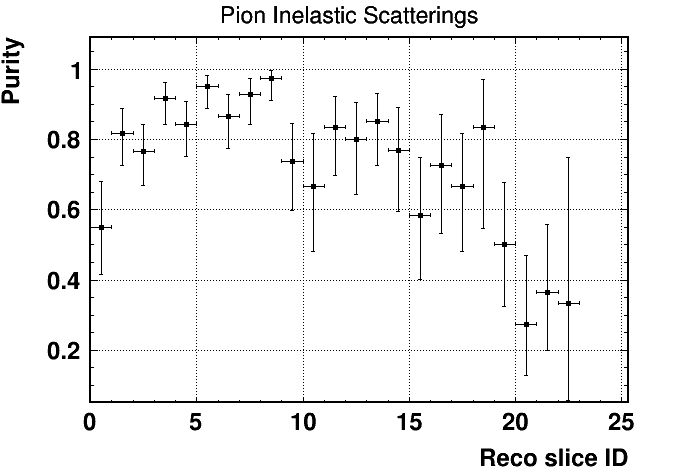
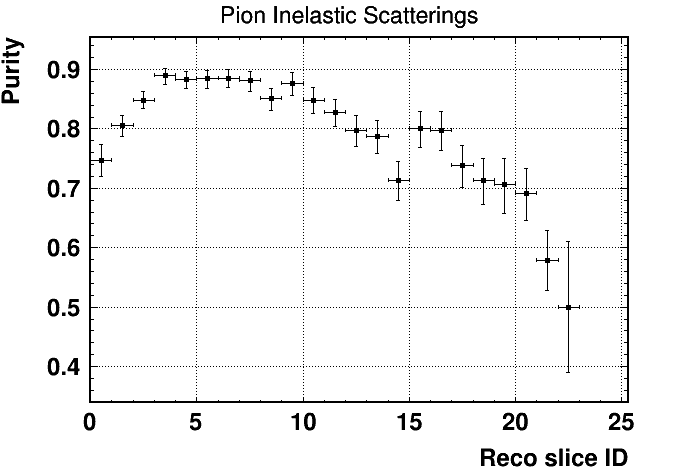
Test prod4 MC.

diff --git a/macros/makeXS.C b/macros/makeXS.C
@@ -4,7 +4,7 @@
 
   gStyle->SetOptStat(0);
 
-  TFile *file = TFile::Open("../install/bin/mc.root");
+  TFile *file = TFile::Open("../install/bin/mcprod4.root");
 
   TH1D *eff_num_Int = (TH1D*)file->Get("eff_num_Int");
   TH1D *eff_den_Int = (TH1D*)file->Get("eff_den_Int");
@@ -119,7 +119,7 @@
     for (int j = i; j<=nthinslices; ++j){
       Ninc[i] += h_truesliceid_pion_uf->GetBinContent(j+2);
       err_inc[i] += pow(h_truesliceid_pion_uf->GetBinError(j+2),2);
-      cout<<i<<" "<<j<<" "<<h_truesliceid_pion_uf->GetBinContent(j+2)<<" "<<Ninc[i]<<endl;
+      //cout<<i<<" "<<j<<" "<<h_truesliceid_pion_uf->GetBinContent(j+2)<<" "<<Ninc[i]<<endl;
     }
     err_inc[i] = sqrt(err_inc[i]);
   }
@@ -139,7 +139,7 @@
     //err_xs[i] = MAr/(Density*NA*thinslicewidth)*1e27*sqrt(N_int[i]+pow(N_int[i],2)/N_inc[i])/N_incidents[i];
     err_xs[i] = MAr/(Density*NA*thinslicewidth)*1e27*sqrt(pow(Nint[i]*err_inc[i]/Ninc[i]/(Ninc[i]-Nint[i]),2)+pow(err_int[i]/(Ninc[i]-Nint[i]),2));
     incE[i] = gr_trueincE->GetPointY(i);
-    std::cout<<i<<" "<<Ninc[i]<<" "<<Nint[i]<<" "<<xs[i]<<" "<<incE[i]<<std::endl;
+    //std::cout<<i<<" "<<Ninc[i]<<" "<<Nint[i]<<" "<<xs[i]<<" "<<incE[i]<<std::endl;
   }
 
   TFile f2("../files/exclusive_xsec.root");

diff --git a/macros/plot.C b/macros/plot.C
@@ -68,12 +68,13 @@ void plot(){
 
   gStyle->SetOptStat(0);
 
-  f = TFile::Open("../install/bin/mc.root");
+  f = TFile::Open("../install/bin/mcprod4.root");
 
   for (int i = 0; i<nCuts; ++i){
     plot1d("hmediandEdx", i, "Median dE/dx (MeV/cm)", "Events");
     plot1d("hdaughter_michel_score", i, "Daughter Michel Score", "Events");
-    plot1d("hreco_beam_endZ_SCE", i, "Reco track end (cm)", "Events");
+    plot1d("hreco_beam_endZ_SCE", i, "Reco track end Z (cm)", "Events");
+    plot1d("htrue_beam_endZ_SCE", i, "True pion/muon end Z (cm)", "Events");
     plot1d("htrue_sliceID", i, "True Slice ID", "Events");
     plot1d("hreco_sliceID", i, "Reco Slice ID", "Events");
     plot1d("hreco_true_beam_endZ_SCE", i, "Reco - True End Z (cm)", "Events");

diff --git a/macros/ploteffpur.C b/macros/ploteffpur.C
@@ -1,7 +1,7 @@
 {
   gStyle->SetOptStat(0);
 
-  TFile *file = TFile::Open("../install/bin/mc.root");
+  TFile *file = TFile::Open("../install/bin/mcprod4.root");
 
   TH1D *eff_num_Int = (TH1D*)file->Get("eff_num_Int");
   TH1D *eff_den_Int = (TH1D*)file->Get("eff_den_Int");
